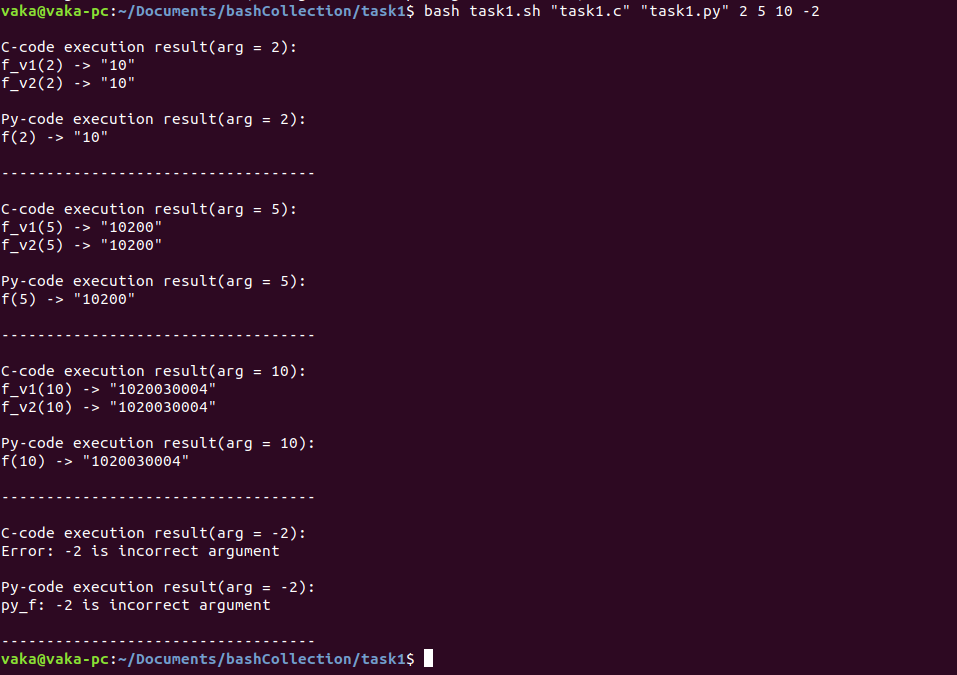
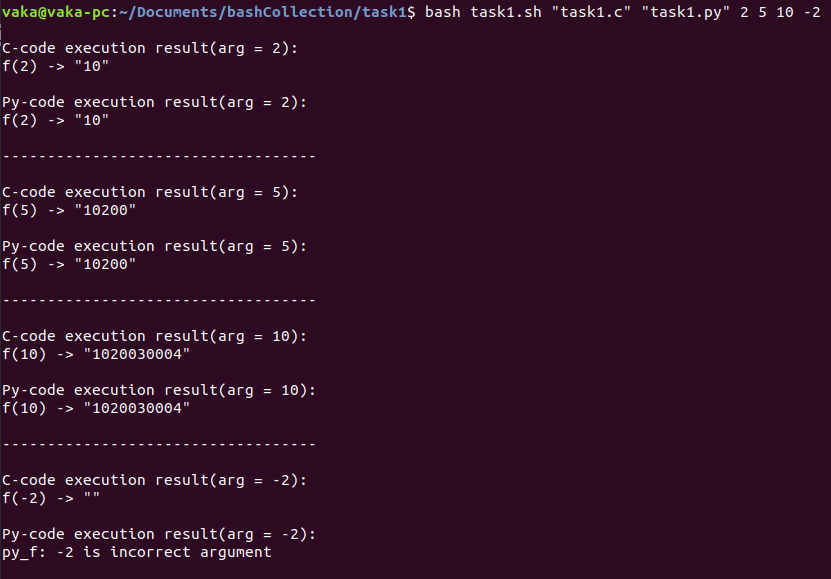
corrected code for big input numbers and output format

diff --git a/task1/task1.c b/task1/task1.c
@@ -8,78 +8,56 @@
 #include <stdio.h>
 #include <stdlib.h>
 #include <stdbool.h> 
+#include <string.h>
 
-char* f_v1(int length)
-{
-    static char str[150];
+static char* str;
 
-    int num = 0, zeroCount = 0, i = 0;
-    bool flagNum = true;
-
-    while(i < length)
-    {
-        if(!flagNum)
-        {
-            str[i++] = '0';
-            zeroCount++;
-            if (zeroCount == num)
-                flagNum = true;
-        }
-        else
-        {
-            sprintf(str+i++, "%d", 1+num++);
-            flagNum = false;
-            zeroCount = 0;
-        }
-    }
-    str[i] = '\0';
-
-    return str;
-}
-
-void f_v2(int n)
-{
-    if (n < 0)
-    {
-        printf("f_v2: %d is incorrect argument\n", n);
+void f(int length){
+    if (length < 1)
         return;
-    }
 
-    char* str = (char*)calloc(n+1, sizeof(char));
-    int i = 0, el = 1, step = 2;
-    while (i < n)
+    int strIt = 0;
+    int el = 1;
+    int step = 2;
+
+    int numSize = 1, decCount = 10;
+
+    while (strIt < length)
     {
-        sprintf(str+i, "%d", el);
-        i += step;
+        sprintf(str+strIt, "%d", el);
+        strIt += step+(numSize-1);
         step++;
         el++;
+        if (el/decCount){
+            numSize++;
+            decCount *= 10;
+        }
     }
 
-    i = -1;
-    while(i < n)
+    strIt = -1;
+    while(strIt < length)
     {
-        i++;
-        if (str[i] | 0x00)
-            continue;
-        str[i] = '0';
+        strIt++;
+        if (str[strIt]) continue;
+        str[strIt] = '0';
     }
 
-    str[n] = '\0';
-    printf("f_v2(%d) -> \"%s\"\n", n, str);
-    free(str);
+    str[length] = '\0';
 }
 
-int main(int argc, char* argv[])
-{
-    int n = atoi(argv[1]);
-    if (n < 0)
-    {
-        printf("Error: %d is incorrect argument\n", n);
-        exit(-1);
-    }
+int main(int argc, char* argv[]){
+    if (argc > 1){
+        int length = atoi(argv[1]);
+        int allocMemSize = ((length > 0) ? length : 0) + 1;
 
-    printf("f_v1(%d) -> \"%s\"\n", n, f_v1(n));    
-    f_v2(n);
+        str = (char*)calloc(allocMemSize, sizeof(char));
+
+        f(length);
+        (void)printf("f(%d) -> \"%s\"\n", length, str);
+        
+        free(str);
+        str = NULL;
+    }
 
     return 0;
 }
